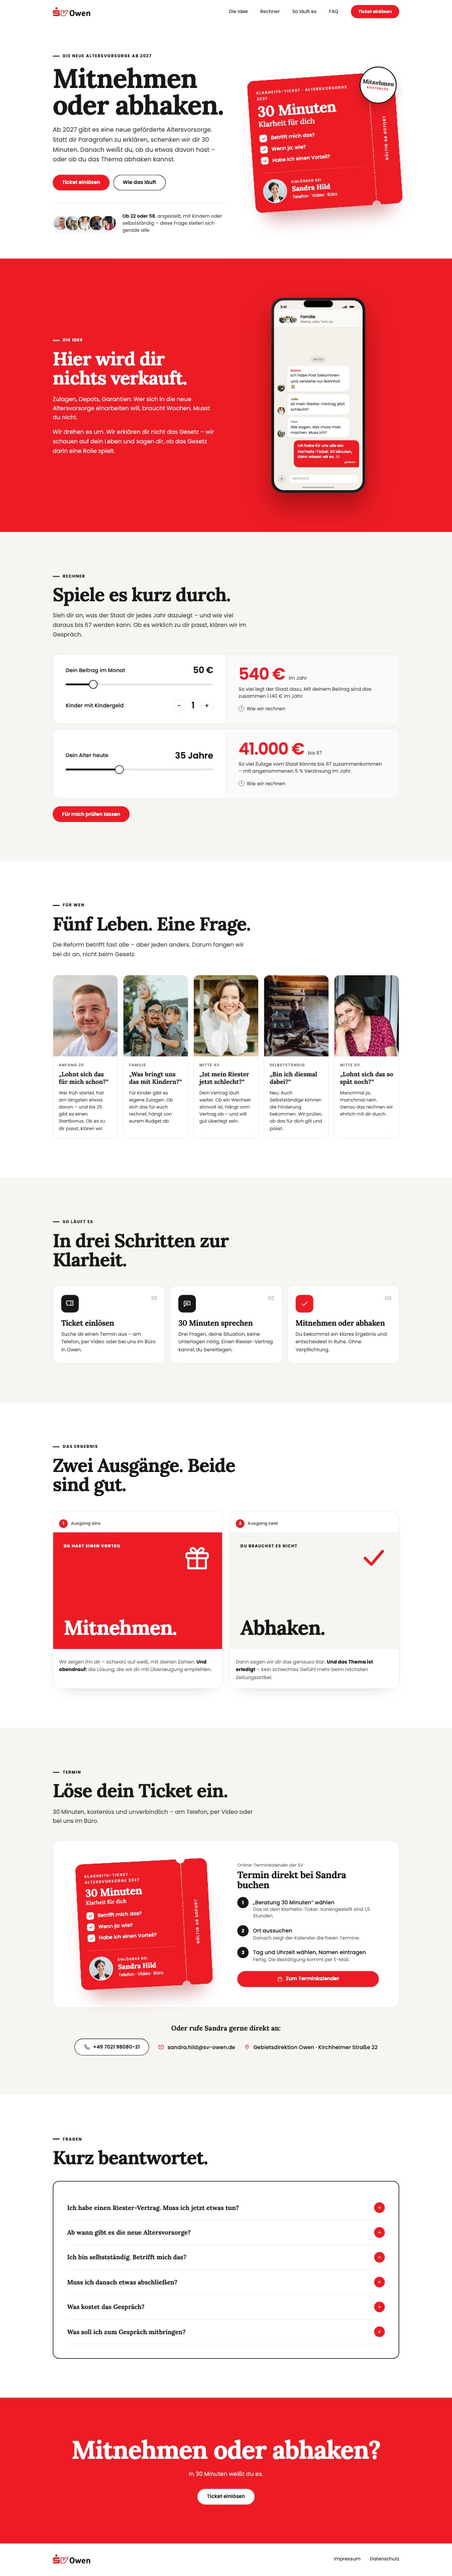
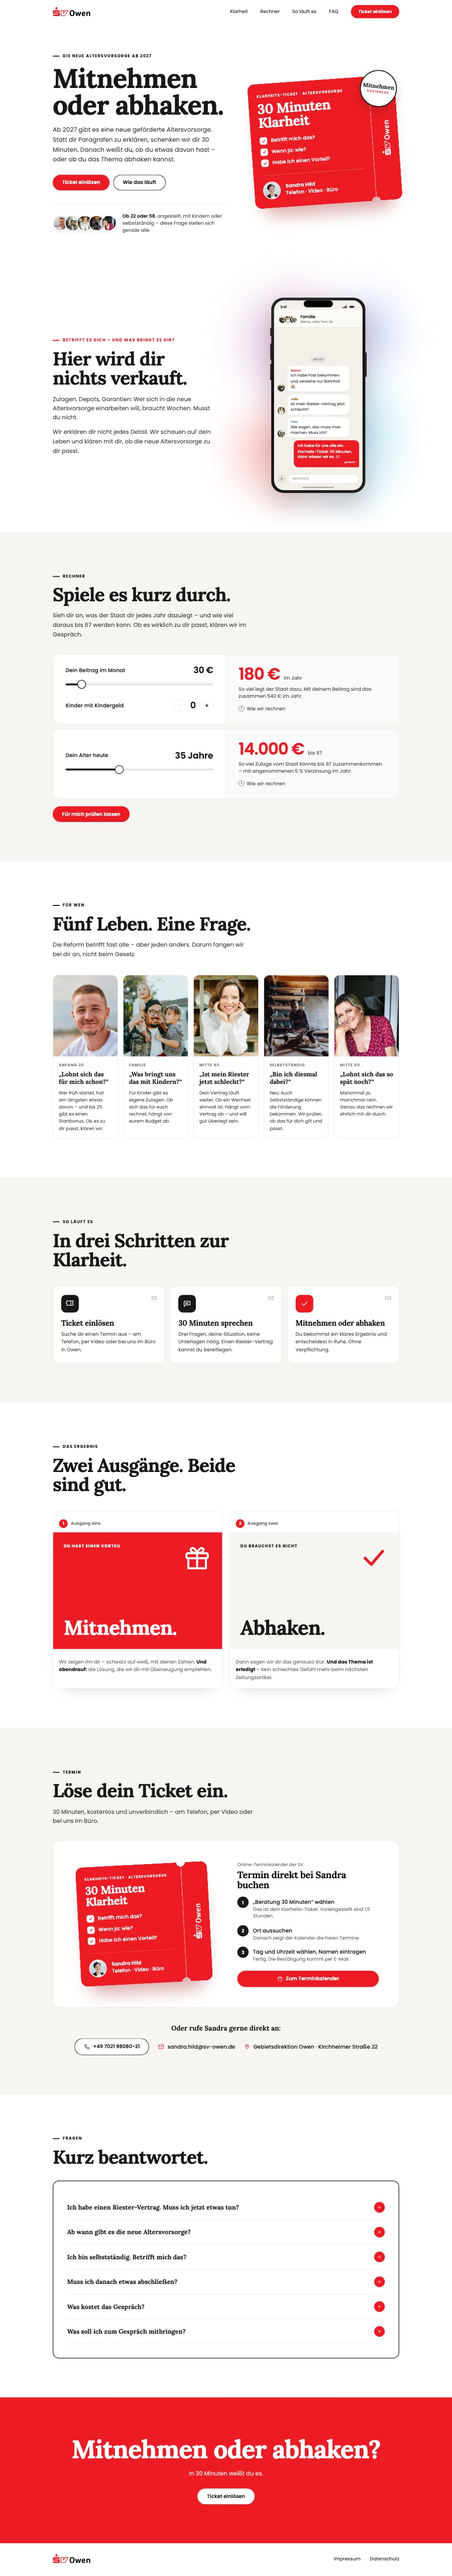
Live: Hintergrund-Auswahl in der Klarheits-Sektion für den Kunden; Landingpage-Kapitel mit neuer Vorschau und Beschreibungen

diff --git a/projekte/avrg.html b/projekte/avrg.html
@@ -160,18 +160,18 @@
         <div>
           <div class="ak-browser">
             <div class="ak-browser-bar"><i></i><i></i><i></i><span>agentur-beispiel.de/neue-altersvorsorge</span></div>
-            <div class="ak-browser-seite" tabindex="0" aria-label="Vorschau der Landingpage, scrollbar"><img src="/assets/projekte/avrg/landingpage-vorschau.jpg" alt="Vorschau der gesamten Landingpage"></div>
+            <div class="ak-browser-seite" tabindex="0" aria-label="Vorschau der Landingpage, scrollbar"><img src="/assets/projekte/avrg/landingpage-vorschau.jpg?v=2" alt="Vorschau der gesamten Landingpage"></div>
           </div>
           <p class="ak-browser-hinweis">Vorschau zum Durchscrollen &middot; die echte Seite ist voll klickbar</p>
         </div>
         <div>
           <ol class="ak-bausteine mk-bausteine">
-            <li><b>Das Klarheits-Ticket <em>Aufmacher</em></b><p>„Mitnehmen oder abhaken.“ und ein rotes Ticket „30 Minuten Klarheit“, dessen Kästchen sich abhaken. Darunter fünf Gesichter: Ob 22 oder 58.</p></li>
-            <li><b>Hier wird dir nichts verkauft <em>Die Idee</em></b><p>Rote Fläche, die Haltung in zwei Sätzen, daneben die Sätze, die Kunden wirklich sagen.</p></li>
+            <li><b>Das Klarheits-Ticket <em>Aufmacher</em></b><p>„Mitnehmen oder abhaken.“ und das rote Klarheits-Ticket mit dem Logo der SV Owen im Abriss – die drei Fragen haken sich nacheinander ab. Darunter fünf Gesichter: Ob 22 oder 58.</p></li>
+            <li><b>Hier wird dir nichts verkauft <em>Klarheit</em></b><p>Betrifft es dich – und was bringt es dir? Die Haltung in zwei Sätzen, daneben der Familienchat mit den Fragen, die Kunden wirklich stellen. Hinter dem iPhone ein leichter Glow in den Farben der SV.</p></li>
             <li><b>Rechner <em>zum Ausprobieren</em></b><p>Oben Beitrag und Kinder: was der Staat jedes Jahr dazulegt. Darunter das Alter: wie viel Zulage bis 67 zusammenkommen kann – mit angenommenen 5 % Verzinsung.</p></li>
             <li><b>Fünf Leben, eine Frage <em>Für wen</em></b><p>Fünf Menschen mit ihrer Frage und einer kurzen ehrlichen Antwort.</p></li>
             <li><b>Drei Schritte und zwei Ausgänge <em>Ablauf und Ergebnis</em></b><p>Ticket einlösen, 30 Minuten sprechen, mitnehmen oder abhaken – dann „Mitnehmen.“ in Rot und „Abhaken.“ daneben. Beide Ausgänge sind gut.</p></li>
-            <li><b>Löse dein Ticket ein <em>Termin</em></b><p>Ticket und Terminkalender der SV in einem Kasten, darunter Telefon und E-Mail von Sandra.</p></li>
+            <li><b>Löse dein Ticket ein <em>Termin</em></b><p>Das Ticket kommt wieder, daneben der Terminkalender der SV in einem Kasten. Darunter Telefon und E-Mail von Sandra.</p></li>
             <li><b>Kurz beantwortet <em>Einwände</em></b><p>Riester, Starttermin, Selbstständige, Abschlusszwang, Kosten, Unterlagen – die Bedenken, bevor sie zum Hindernis werden.</p></li>
           </ol>
         </div>

diff --git a/projekte/avrg-landingpage-3.html b/projekte/avrg-landingpage-3.html
@@ -58,6 +58,22 @@
 </div></section>
 
 <section class="v3-sek v3-sek--rot v3-idee-sek" id="idee" data-bg="1">
+<!-- Hintergrund-Auswahl für den Kunden (auch live): 1 Glow frisch, 2 Glow Rot/Violett, 3 Verlauf -->
+<div class="bg-wahl" role="group" aria-label="Hintergrund wählen"><span>Hintergrund</span><button type="button" data-v="1" aria-pressed="true">1</button><button type="button" data-v="2" aria-pressed="false">2</button><button type="button" data-v="3" aria-pressed="false">3</button></div>
+<style>
+.bg-wahl{position:absolute;z-index:5;top:20px;right:20px;display:flex;align-items:center;gap:6px;padding:6px 6px 6px 14px;border-radius:999px;background:rgba(0,0,0,.35);backdrop-filter:blur(6px);font:600 12px/1 var(--font);color:#fff}
+.bg-wahl span{margin-right:4px;opacity:.85}
+.bg-wahl button{width:30px;height:30px;border-radius:50%;border:1.5px solid rgba(255,255,255,.6);background:transparent;color:#fff;font:600 13px/1 var(--font);cursor:pointer}
+.bg-wahl button[aria-pressed="true"]{background:#fff;color:#141414;border-color:#fff}
+</style>
+<script>
+document.querySelectorAll('.bg-wahl button').forEach(function (b) {
+  b.addEventListener('click', function () {
+    document.getElementById('idee').dataset.bg = b.dataset.v;
+    document.querySelectorAll('.bg-wahl button').forEach(function (x) { x.setAttribute('aria-pressed', x === b ? 'true' : 'false'); });
+  });
+});
+</script>
 <div class="wrap v3-zwei">
   <div class="v3-idee">
     <p class="v3-kicker">Betrifft es dich – und was bringt es dir?</p>
